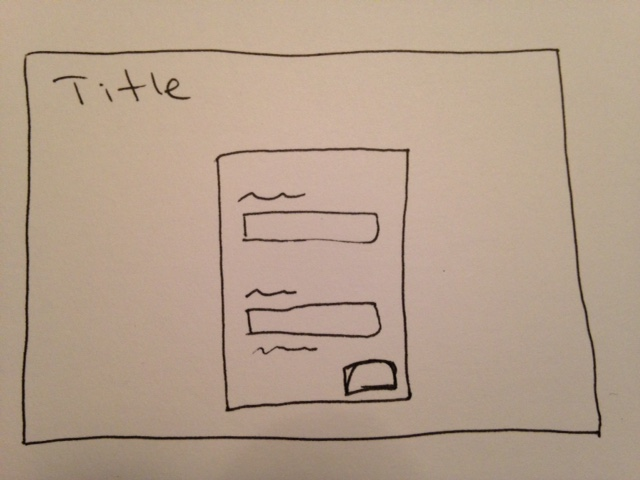
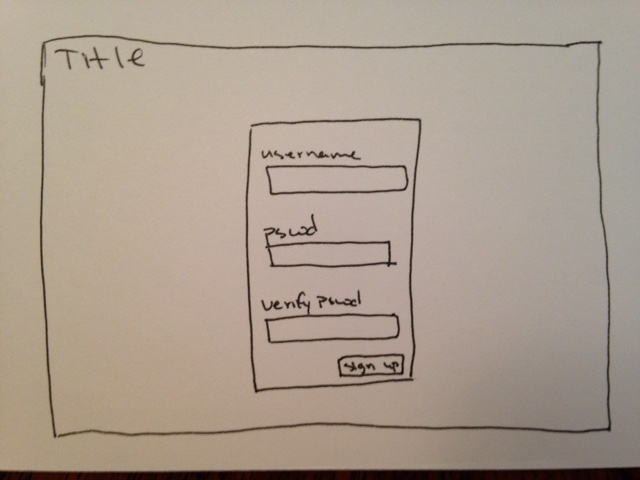
more styling, added additional wireframes

Changed region(s): [[0.0, 0.0625, 1.0, 1.0]]

diff --git a/public/index.html b/public/index.html
@@ -27,11 +27,13 @@
     <main role="main">
         <section class="dashboard">
             <section class="search col-12">
-                <form action="#" name="author-search">
+                <div class="col-4 placeholder">h</div>
+                <form action="#" name="author-search" class="col-4">
                     <label for="search-input">Find Books</label><br>
-                    <input type="text" name="search-input" id="search-input" placeholder="author search">
-                    <button type="submit">Search</button>
+                    <input type="text" name="search-input" id="search-input" placeholder="author search" class="col-8">
+                    <button type="submit" class="col-4">Search</button>
                 </form>
+                <div class="col-4 placeholder">f</div>
             </section>
 
             <section class="my-books col-7">
@@ -61,18 +63,104 @@
                     <img src="images/book-thumbnail-placeholder.jpg" />
                     <p class="book-title">Harry Potter and the Cursed Child</p>
                     <p class="author">J.K. Rowling</p>
+                    <button class="add" type="submit">Add to My Profile</button>
+                    <button class="remove" type="submit">Remove from List</button>
                 </div>
                 <div class="book-entry">
                     <img src="images/book-thumbnail-placeholder.jpg" />
                     <p class="book-title">Harry Potter and the Cursed Child</p>
                     <p class="author">J.K. Rowling</p>
+                    <button class="add" type="submit">Add to My Profile</button>
+                    <button class="remove" type="submit">Remove from List</button>
                 </div>
                 <a class="see-more" href="#">See More</a>
             </section>
         </section>
+
+        <section class="search-results col-12">
+            <form action="#" name="author-search">
+                <label for="search-input">Find Books</label><br>
+                <input type="text" name="search-input" id="search-input" placeholder="author search">
+                <button type="submit">Search</button>
+            </form>
+            <div class="results">
+                <div class="book-entry">
+                    <img src="images/book-thumbnail-placeholder.jpg" />
+                    <div class="book-info">
+                        <p class="book-title">Harry Potter and the Cursed Child</p>
+                        <p class="author">J.K. Rowling</p>
+                        <button type="submit">Add to My Profile</button>
+                    </div>
+                </div>
+                <div class="book-entry">
+                    <img src="images/book-thumbnail-placeholder.jpg" />
+                    <div class="book-info">
+                        <p class="book-title">Harry Potter and the Cursed Child</p>
+                        <p class="author">J.K. Rowling</p>
+                        <button type="submit">Add to My Profile</button>
+                    </div>
+                </div>
+            </div>
+        </section>
+
+        <section class="my-profile col-12">
+            <p>My Books</p>
+            <p>Organize by Series: Create New</p>
+            <form action="#" name="create-series">
+                <label for="search-input">Series Name</label><br>
+                <input type="text" name="search-input" id="search-input">
+                <button type="submit">Create</button>
+            </form>
+            <h4>My Book Series</h4>
+            <div class="series">
+                <p class="author">J.K. Rowling</p>
+                <p class="series-name">Harry Potter</p>
+                <div class="book-entry">
+                    <img src="images/book-thumbnail-placeholder.jpg" />
+                    <p class="book-title">Harry Potter and the Cursed Child</p>
+                    <p class="author">J.K. Rowling</p>
+                </div>
+                <div class="book-entry">
+                    <img src="images/book-thumbnail-placeholder-2.jpg" />
+                    <p class="book-title">Fantastic Beasts and Where to Find Them</p>
+                    <p class="author">J.K. Rowling</p>
+                </div>
+            </div>
+            <div class="series">
+                <p class="author">J.K. Rowling</p>
+                <p class="series-name">World of Harry Potter</p>
+                <div class="book-entry">
+                    <img src="images/book-thumbnail-placeholder.jpg" />
+                    <p class="book-title">Harry Potter and the Cursed Child</p>
+                    <p class="author">J.K. Rowling</p>
+                </div>
+            </div>
+        </section>
+
+        <section class="new-releases-full col-12">
+            <h4>New Releases by My Authors</h4>
+            <div class="book-entry">
+                <img src="images/book-thumbnail-placeholder.jpg" />
+                <p class="book-title">Harry Potter and the Cursed Child</p>
+                <p class="author">J.K. Rowling</p>
+                <button class="add" type="submit">Add to My Profile</button>
+                <button class="remove" type="submit">Remove from List</button>
+            </div>
+            <div class="book-entry">
+                <img src="images/book-thumbnail-placeholder.jpg" />
+                <p class="book-title">Harry Potter and the Cursed Child</p>
+                <p class="author">J.K. Rowling</p>
+                <button class="add" type="submit">Add to My Profile</button>
+                <button class="remove" type="submit">Remove from List</button>
+            </div>
+        </section>
     </main>
 
     <footer role="contentinfo"></footer>
+
+    <script src="https://code.jquery.com/jquery-3.2.1.min.js"></script>
+    <script src="client.js"></script>
+
 </body>
 
 

diff --git a/public/main.css b/public/main.css
@@ -18,7 +18,7 @@
 
 html {
     height: 100%;
-    background: url(images/books-background.jpg) no-repeat center center fixed;
+    background: url(images/background-image.jpeg) no-repeat center center fixed;
     -webkit-background-size: cover;
     -moz-background-size: cover;
     -o-background-size: cover;
@@ -37,11 +37,18 @@ button {
 
 .search,
 .my-books,
-.new-releases {
-    background-color: rgba(139, 132, 103, 0.6);
+.new-releases,
+.search-results,
+.my-profile,
+.new-releases-full {
+    /*    background-color: rgba(139, 132, 103, 0.6);*/
+    /*    background-color: rgba(95, 158, 160, 0.3);*/
+    /*    background-color: rgba(245, 247, 246, 0.7);*/
+    background-color: rgba(214, 201, 194, 0.8);
     padding: 20px;
     margin-top: 20px;
-    border: 1px solid black;
+    /*    border: 1px solid black;*/
+    border-radius: 5px;
 }
 
 nav {
@@ -78,23 +85,23 @@ header {
     margin: 0 auto;
     padding-top: 20%;
     padding-bottom: 20%;
-    color: white;
 }
 
 h1 {
     font-family: 'Cinzel Decorative', cursive;
-    font-size: 3.5rem;
-    font-weight: normal;
+    font-size: 4rem;
+    /*    font-weight: normal;*/
     color: black;
 }
 
 h2 {
-    font-size: 1.3rem;
-    font-weight: normal;
+    font-size: 1.8rem;
 }
 
 header p {
     margin-top: 10px;
+    font-size: 1.2rem;
+    font-weight: bold;
 }
 
 main {
@@ -102,25 +109,32 @@ main {
     margin: 0 auto;
     padding-left: 20px;
     padding-right: 20px;
+    background: url(images/books-background-2.jpg) no-repeat center center fixed;
+}
+
+.placeholder {
+    font-size: 0;
 }
 
 form {
-    width: 100%;
+    /*    width: 100%;*/
     display: inline-block;
-    margin: 0 auto;
+    margin-left: 0 auto;
+    margin-right: 0 auto;
     /*    padding-left: 40%;*/
 }
 
 input {
-    padding-left: 5px;
+    /*    padding-left: 5px;*/
     padding-top: 2px;
     padding-bottom: 2px;
-    margin-top: 5px;
-    margin-right: 3px;
+    /*    margin-top: 5px;*/
+    /*    margin-right: 3px;*/
     width: 40%;
 }
 
-.search button {
+.search button,
+.search-results button {
     padding-top: 2px;
     padding-bottom: 2px;
     padding-left: 4px;
@@ -140,9 +154,37 @@ h4 {
 .book-entry {
     padding-left: 5px;
     padding-right: 10px;
-    margin-bottom: 25px
+    margin-bottom: 25px;
+    margin-top: 20px;
 }
 
 .author {
     font-weight: bold;
+}
+
+.search-results {
+    margin-top: 50px;
+    border: 1px solid black;
+}
+
+.results .book-entry {
+    display: block;
+}
+
+.results .book-entry img {
+    vertical-align: text-top;
+}
+
+.book-info {
+    display: inline-block;
+    vertical-align: text-top;
+}
+
+.my-profile {
+    border: 1px solid black;
+    margin-top: 30px;
+}
+
+.my-profile .series {
+    display: block;
 }

diff --git a/README.md b/README.md
@@ -19,32 +19,33 @@ This app helps readers track books they have read and learn about new book relea
 ![Wireframe](https://github.com/EGrebowski/book-series-tracker-node-capstone/blob/master/github-images/user-story-1.JPG)
 
 1.2 As a visitor, I can sign up for an account in order to create a profile.
+![Wireframe](https://github.com/EGrebowski/book-series-tracker-node-capstone/blob/master/github-images/user-story-2.JPG)
 
 1.3 As a user, I can log into my account in order to save my progress.
-
-2.2 As a user, I can update my password in case I forget it and need to log in.
-![Wireframe](https://github.com/EGrebowski/book-series-tracker-node-capstone/blob/master/github-images/user-story-2.JPG)
+![Wireframe](https://github.com/EGrebowski/book-series-tracker-node-capstone/blob/master/github-images/user-story-6.JPG)
 
 1.5 As a user, I can view my dashboard when I log in in order to see integrated data about my account.
 ![Wireframe](https://github.com/EGrebowski/book-series-tracker-node-capstone/blob/master/github-images/user-story-3.JPG)
 
 1.4 As a user, I can search for books or authors I have read so that I can add them to my profile.
-
 1.6 As a user, I can add books to my profile so that I can keep track of what I have read.
 ![Wireframe](https://github.com/EGrebowski/book-series-tracker-node-capstone/blob/master/github-images/user-story-4.JPG)
 
 1.7 As a user, I can view a list of new releases by authors I follow so that I can find new books in a series.
-
 2.3 As a user, I can remove new releases from the list if I am uninterested in order to clean up the results.
-
 1.8 As a user, I can add new releases to my profile in order to follows those authors or indicated I have read the book.
 ![Wireframe](https://github.com/EGrebowski/book-series-tracker-node-capstone/blob/master/github-images/user-story-5.JPG)
+
+2 As a user, I can see my entire library from a profile page.
+2 As a user, I can create and organize my library by series.
+![Wireframe](https://github.com/EGrebowski/book-series-tracker-node-capstone/blob/master/github-images/user-story-7.JPG)
+
+2 As a user, I can assign a series to books in my library using a dropdown menu.
+![Wireframe](https://github.com/EGrebowski/book-series-tracker-node-capstone/blob/master/github-images/user-story-8.JPG)
 
 2.1 As a user, I can click on a book in the list for a plot summary so that I can refresh my memory on the book.
 
 3.3 As a user, I can group books by genre.
-
-3.4 As a user, I can group books by series in order to better organize my profile.
 
 3.1 As a user, I can select favorites from my library in order to better organize my profile.
 
